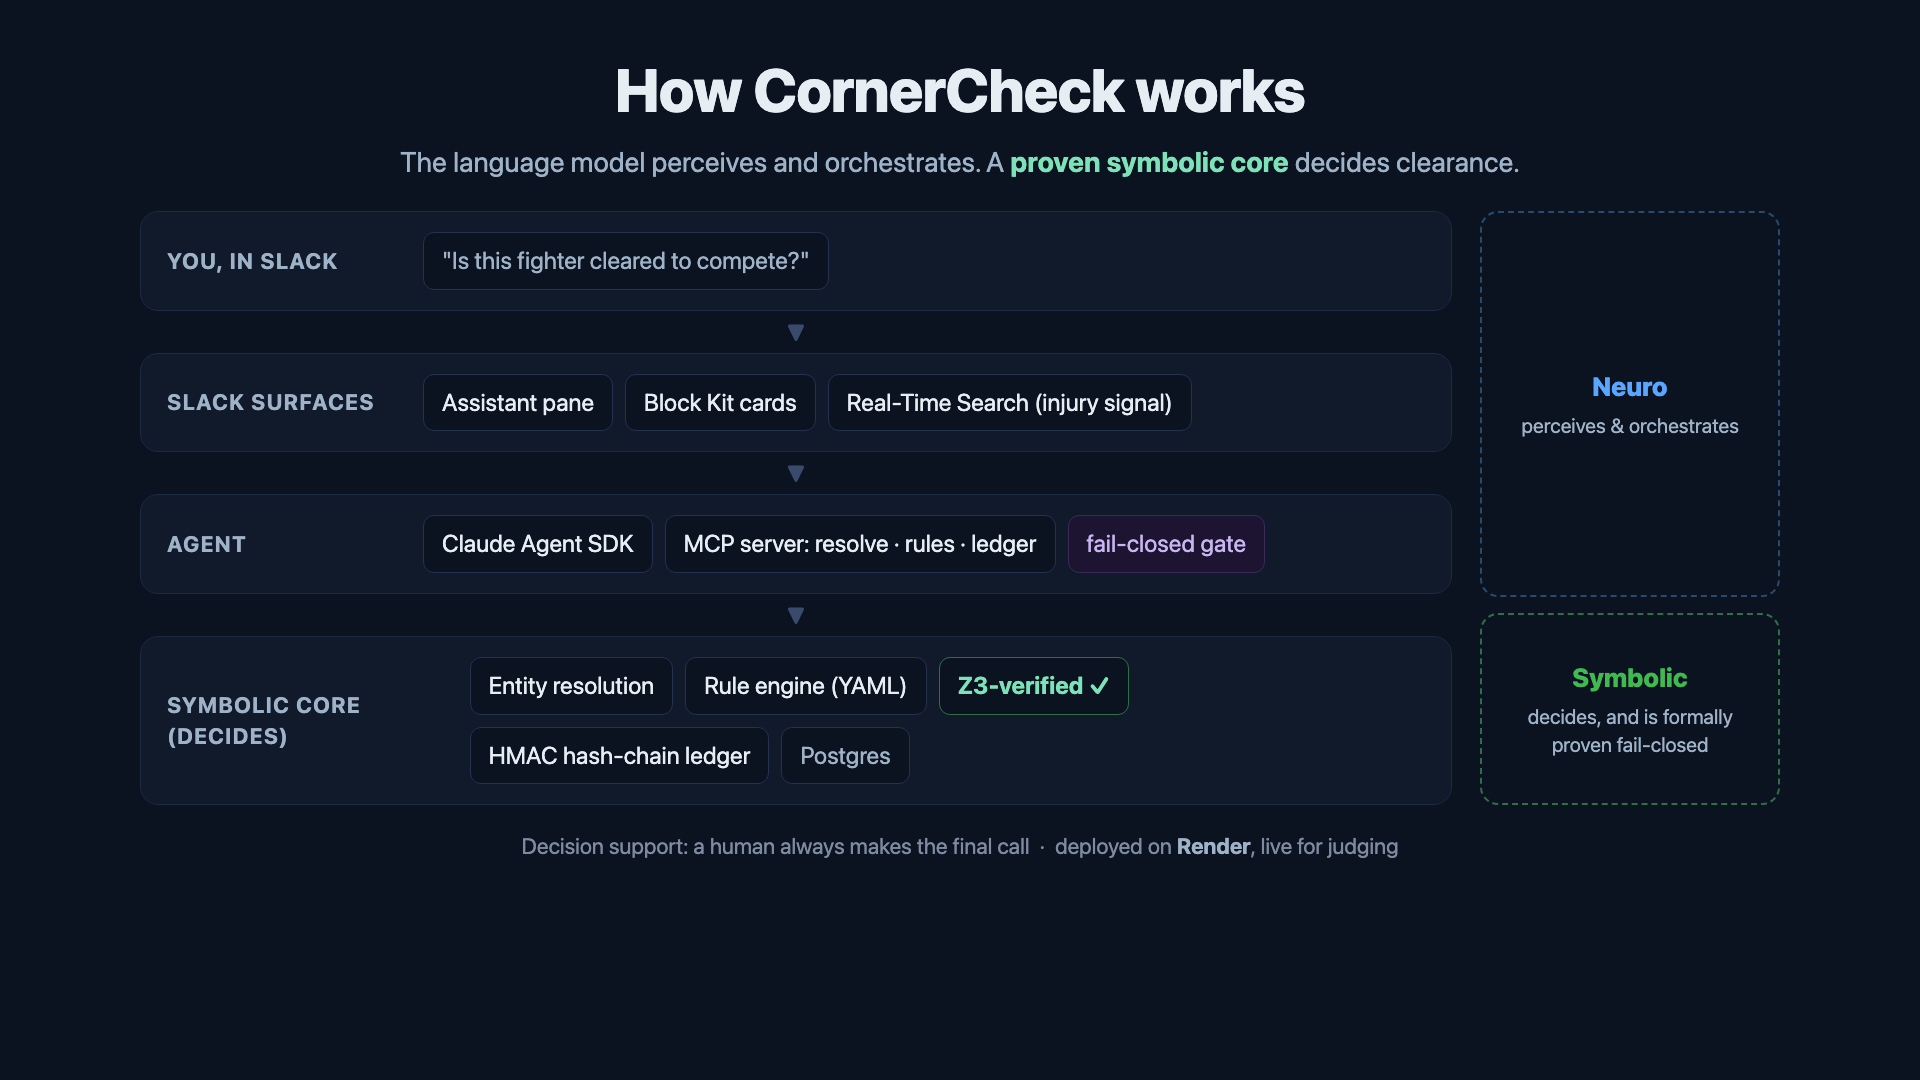
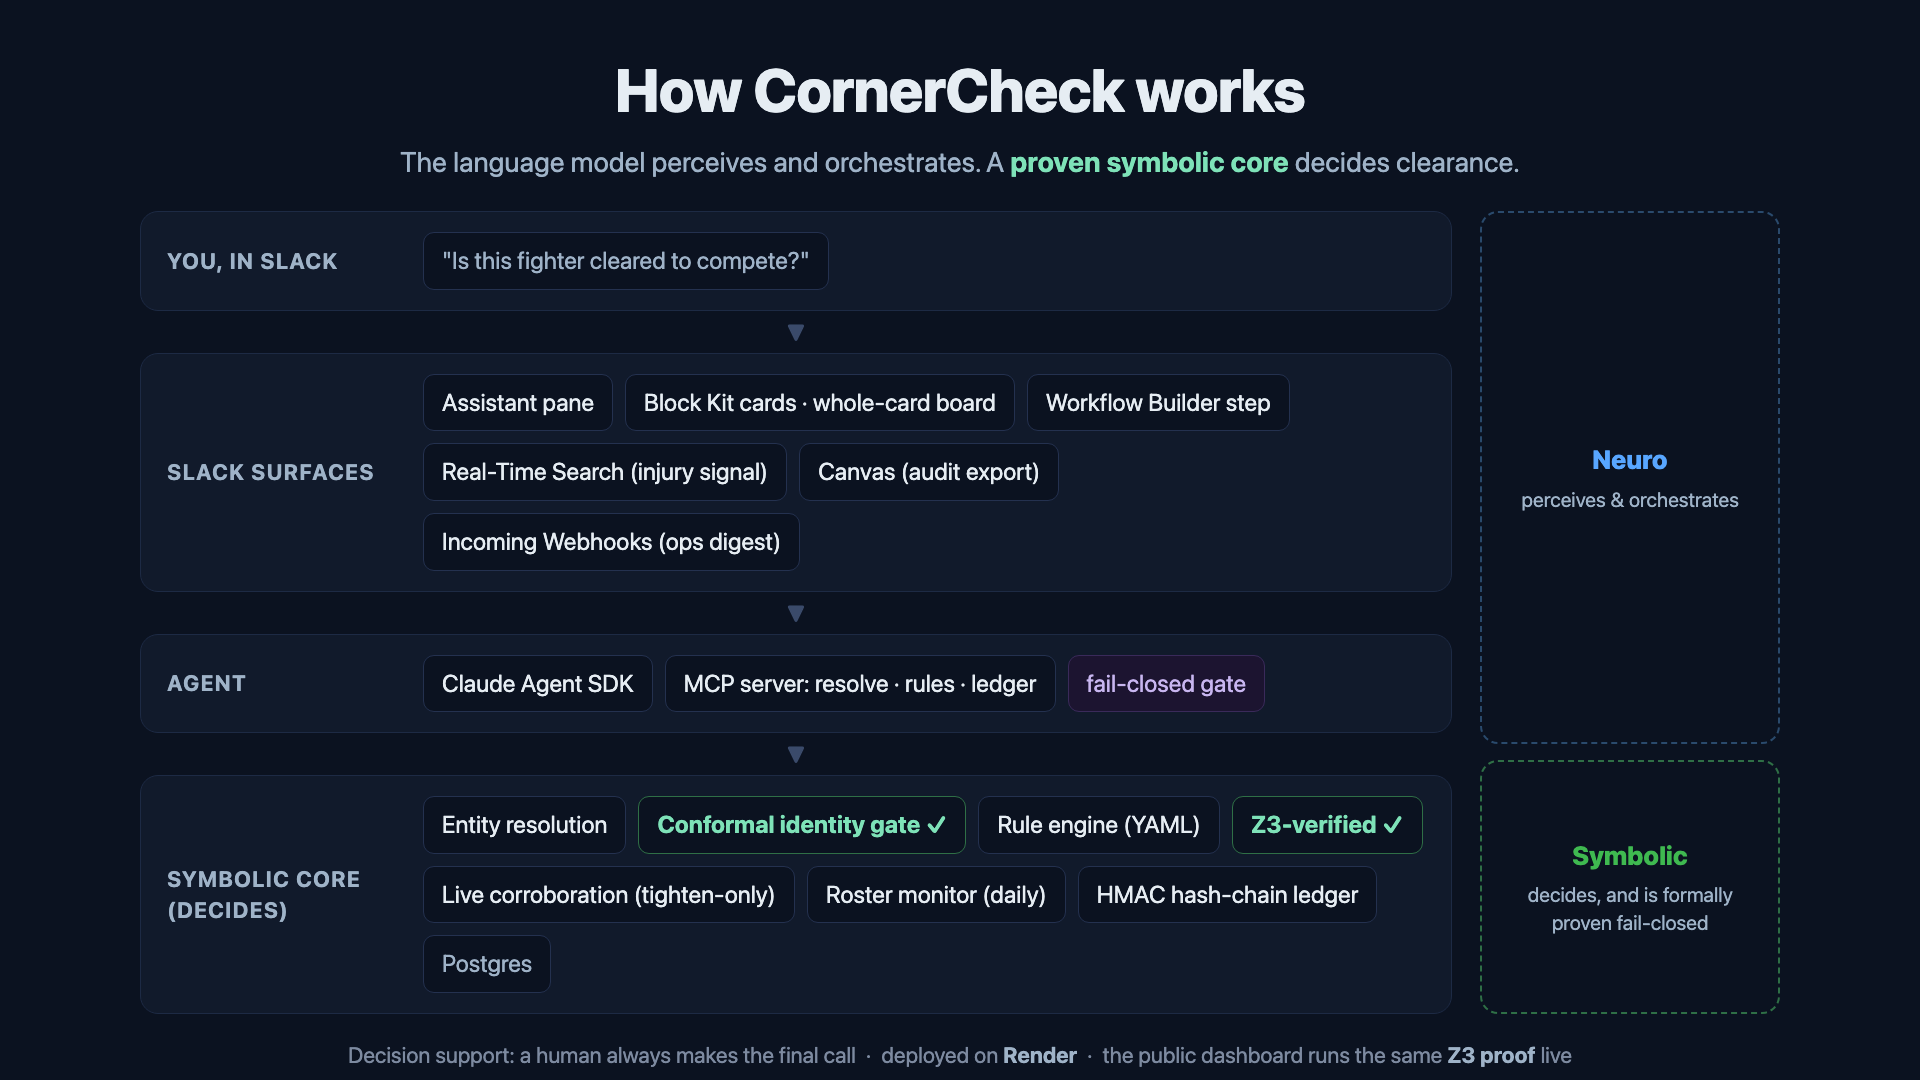
docs: devpost paste-ready form fields + current-system architecture diagram
- architecture.png/html: add the six shipped Slack surfaces (Workflow Builder
  step, Canvas export, Incoming Webhooks digest) and the full symbolic core
  (conformal identity gate, live corroboration, roster monitor) so the required
  Devpost diagram matches the shipped system, not the WAVE-B snapshot
- thumbnail.png/html: new 1200x800 (Devpost 3:2) gallery thumbnail
- dashboard-1200x800.png: live production dashboard capture for the gallery
- devpost-submission.md: paste-ready form-field section (199-char pitch,
  Agents-for-Good impact statement, track/links/uploads map); precision fixes
  from independent fact-check: 'rule core' scoping, '10 jurisdictions'

diff --git a/docs/demo-assets/thumbnail.html b/docs/demo-assets/thumbnail.html
@@ -1,0 +1,50 @@
+<!doctype html>
+<html lang="en"><head><meta charset="utf-8">
+<style>
+  html, body { width: 1200px; height: 800px; margin: 0; overflow: hidden; }
+  body {
+    background: radial-gradient(1200px 800px at 75% -10%, #14203a 0%, #0b1220 55%);
+    color: #e6edf3;
+    font: 400 24px/1.4 -apple-system, BlinkMacSystemFont, "Segoe UI", Roboto, sans-serif;
+    display: flex; align-items: center;
+  }
+  .wrap { width: 1040px; margin: 0 auto; }
+  .kicker {
+    color: #7ee2b8; font-size: 26px; font-weight: 700;
+    text-transform: uppercase; letter-spacing: 0.22em; margin-bottom: 26px;
+  }
+  h1 { font-size: 132px; font-weight: 800; letter-spacing: -0.02em; margin: 0 0 18px; }
+  .sub { font-size: 40px; color: #c9d6e4; margin: 0 0 34px; }
+  .chips { display: flex; flex-wrap: wrap; gap: 14px; margin-bottom: 56px; }
+  .chip {
+    background: #0e1830; border: 1px solid #24314f; border-radius: 12px;
+    padding: 12px 20px; font-size: 25px; color: #9fb3c8;
+  }
+  .chip.accent { border-color: #2f6f46; color: #7ee2b8; font-weight: 700; }
+  .foot { display: flex; align-items: center; justify-content: space-between; }
+  .live {
+    display: inline-flex; align-items: center; gap: 10px;
+    background: #11261b; border: 1px solid #2f6f46; border-radius: 999px;
+    padding: 10px 22px; font-size: 24px; font-weight: 700; color: #7ee2b8;
+  }
+  .dot { width: 12px; height: 12px; border-radius: 50%; background: #3fb950; }
+  .meta { text-align: right; font-size: 23px; color: #9fb3c8; line-height: 1.5; }
+  .meta b { color: #e6edf3; }
+</style></head>
+<body>
+  <div class="wrap">
+    <div class="kicker">Fighter safety, where teams already work</div>
+    <h1>CornerCheck</h1>
+    <p class="sub">The agent that refuses to guess.</p>
+    <div class="chips">
+      <span class="chip accent">Fail-closed &#10003;</span>
+      <span class="chip accent">Z3-proven rules &#10003;</span>
+      <span class="chip accent">Conformal-certified identity &#10003;</span>
+      <span class="chip">Hash-chained audit trail</span>
+    </div>
+    <div class="foot">
+      <span class="live"><span class="dot"></span> LIVE</span>
+      <div class="meta">Slack Agent Builder Challenge<br><b>Agent for Good</b></div>
+    </div>
+  </div>
+</body></html>

diff --git a/docs/demo-assets/architecture.html b/docs/demo-assets/architecture.html
@@ -66,8 +66,11 @@
           <div class="label">Slack surfaces</div>
           <div class="chips">
             <span class="chip">Assistant pane</span>
-            <span class="chip">Block Kit cards</span>
+            <span class="chip">Block Kit cards &middot; whole-card board</span>
+            <span class="chip">Workflow Builder step</span>
             <span class="chip">Real-Time Search (injury signal)</span>
+            <span class="chip">Canvas (audit export)</span>
+            <span class="chip">Incoming Webhooks (ops digest)</span>
           </div>
         </div>
         <div class="arrow">&#9660;</div>
@@ -86,8 +89,11 @@
           <div class="label">Symbolic core (decides)</div>
           <div class="chips">
             <span class="chip">Entity resolution</span>
+            <span class="chip accent">Conformal identity gate &#10003;</span>
             <span class="chip">Rule engine (YAML)</span>
             <span class="chip accent">Z3-verified &#10003;</span>
+            <span class="chip">Live corroboration (tighten-only)</span>
+            <span class="chip">Roster monitor (daily)</span>
             <span class="chip">HMAC hash-chain ledger</span>
             <span class="chip muted">Postgres</span>
           </div>
@@ -106,6 +112,6 @@
       </div>
     </div>
 
-    <footer>Decision support: a human always makes the final call &nbsp;·&nbsp; deployed on <b>Render</b>, live for judging</footer>
+    <footer>Decision support: a human always makes the final call &nbsp;·&nbsp; deployed on <b>Render</b> &nbsp;·&nbsp; the public dashboard runs the same <b>Z3 proof</b> live</footer>
   </div>
 </body></html>

diff --git a/docs/devpost-submission.md b/docs/devpost-submission.md
@@ -32,7 +32,7 @@ check belongs there too.
 CLEAR, DO NOT CLEAR, or NEEDS PICK, with the blocking record cited. Underneath that surface:
 
 1. **Catches cross-jurisdiction suspensions** against 54 curated, source-cited commission
-   cases across 10 athletic commissions (every case adversarially verified against its
+   cases across 10 jurisdictions (every case adversarially verified against its
    source).
    When the booking commission differs from the suspending one, it surfaces the consult-first
    step: binding federal law for boxing, the same discipline applied for MMA where no federal
@@ -137,3 +137,55 @@ Python, Slack Bolt (Assistant, Socket Mode), Block Kit, Real-Time Search, Canvas
 Incoming Webhooks, Claude Agent SDK, FastMCP (Model Context Protocol), Postgres (pg_trgm,
 jellyfish entity resolution), Z3 theorem prover, split conformal prediction, Hypothesis,
 HMAC-SHA256 hash-chain ledger, boxing-data.com API, Render.
+
+---
+
+## Devpost form fields (paste-ready, finalized 2026-06-10)
+
+Adversarially fact-checked against this repo (12/13 claims confirmed by independent
+review; the two precision notes are already applied below: "rule core" not "rules",
+"jurisdictions" not "athletic commissions").
+
+**Project name** (60 max): `CornerCheck`
+
+**Elevator pitch** (199/200 chars):
+
+> The agent that refuses to guess: fail-closed fighter-safety clearance inside Slack.
+> Mathematically proven rule core, statistically certified identity, and an audit trail
+> you can hand to a commission.
+
+**About the project**: paste this document from "Inspiration" through "What is next for
+CornerCheck" (Devpost renders the Markdown headings).
+
+**Built with** (tag field): python, slack-bolt, block-kit, real-time-search, canvas,
+incoming-webhooks, claude-agent-sdk, mcp, postgres, z3, conformal-prediction, hypothesis,
+hmac, render
+
+**Try it out links**: https://cornercheck.onrender.com and
+https://github.com/StephenSook/cornercheck
+
+**Track**: Slack Agent for Good. **Submitter type**: Individual. **Country**: United
+States of America. **Organization / Slack App ID / Orgs-track update fields**: blank
+(Organizations track not entered).
+
+**Slack Agents for Good Track, impact field**:
+
+> In 2017, fighter Tim Hague died after a bout fought just days after his medical
+> suspension lapsed, with nobody re-verifying it; the 2024 fatality inquiry called for a
+> fighter-safety registry that still does not exist. Medical suspensions do not reliably
+> travel between athletic commissions, and matchmakers book fighters across state lines
+> from Slack today. CornerCheck makes the unsafe booking the hard one: it checks single
+> fighters and whole fight cards against 54 source-verified suspension cases across 10
+> jurisdictions plus the live boxing record, and it refuses to clear an ambiguous
+> identity (conformally calibrated, 95% coverage). A daily monitor re-checks every
+> suspension window, so a lapsed window cannot be silently forgotten: the failure mode
+> in the Hague case. The impact is measurable in-product: every DO-NOT-CLEAR and every
+> refusal is written to a tamper-evident, hash-chained audit ledger, so prevented unsafe
+> bookings are countable, auditable events rather than anecdotes. Free and open source
+> for any gym, promotion, or commission.
+
+**Architecture diagram upload**: `docs/demo-assets/architecture.png` (1920x1080, current
+shipped system). **Thumbnail**: `docs/demo-assets/thumbnail.png` (1200x800, Devpost 3:2).
+**Gallery**: `docs/demo-assets/dashboard-1200x800.png` + verdict-card.png + Slack
+screenshots at recording time. **Video demo link**: pending the Jul 7-8 recording; that
+form page cannot be saved until a URL exists.